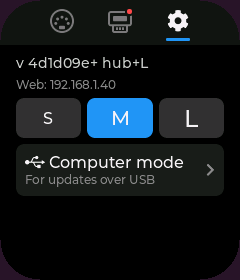
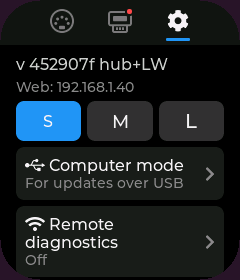
Install box: say when the board runs a newer build; two-line check, short done
The board's build is compared with the offered one through the build's
ancestors, now listed in each manifest (build_site.py; CI's site job fetches
full history). A board on a newer or unknown-branch build hears so, and
keeping it is the first button. Check result is two lines; a blank board is
ready, not empty; the done message links the library and shows the RST hint
only after the restart should be over. Settings shot re-rendered from a
clean version.

diff --git a/site/installer/area.js b/site/installer/area.js
@@ -25,7 +25,7 @@ import { PORT_FILTER, SERIAL_OPTIONS, port as lock, h } from "./ui.js";
 
 // Shown in the page footer and in Details, so a bug report says which
 // installer ran. Bump it with every change to site/installer/.
-export const INSTALLER_VERSION = "2026-11-05.2";
+export const INSTALLER_VERSION = "2026-11-05.3";
 
 // The page footer shows it (build.py), so a bug report says which installer ran.
 const versionLine = typeof document !== "undefined" && document.getElementById("installer-version");
@@ -66,7 +66,9 @@ async function withTimeout(promise, ms, what) {
 // Chad's wording (2026-10-31) for a store region that holds data but no store.
 const UNREADABLE = "Your ESP32 has storage we can't read. Email feedback@outrigger.music before continuing. Nothing was installed.";
 
-const KEEPS = "Your settings and FM-1 backups stay.";
+// The board restarts after an install; a board that stays dark needs RST. Its USB port hosts the hub once it runs,
+// so this computer can't see it come back: the hint shows after the restart should have finished.
+const RST_HINT_MS = 20000;
 
 // The anonymous install count (install_event.js). Reading localStorage itself can throw; then nothing is remembered.
 function storage() {
@@ -280,33 +282,33 @@ class InstallArea {
   }
 
   confirm(choice, build, board, store) {
-    const words = describeBoard(board, build.manifest.build, this.names);
+    const words = describeBoard(board, build.manifest.build, this.names, build.manifest.ancestors);
     const name = buildName(build.manifest.build.app_set);
-    const noStore = store.unfinished ? "Its store was being set up when the last install stopped, so it has no store yet."
-      : store.previousFirmware ? "This board ran other firmware before, so it has no store." : "It has no store yet.";
+    const cancel = (label, cls) => h("button", { class: cls, on: { click: async () => { await this.close(); this.ready(); } } }, label);
     if (store.downloadProblem) {
       // A store set up later would land on leftovers (store.js storeAction), so nothing installs without it.
       return this.show(
         h("p", { class: "install-read" }, words.board),
         words.warning ? h("p", { class: "install-error", role: "alert" }, words.warning) : null,
-        h("p", {}, `${noStore} Installing sets one up with ${listOf(store.starter)}, but a download didn't come through: ${store.downloadProblem}. Nothing was written. Try again in a few minutes.`),
-        h("div", { class: "row" }, h("button", { class: "alt", on: { click: async () => { await this.close(); this.ready(); } } }, "Close")),
+        h("p", {}, `A download for its store didn't come through: ${store.downloadProblem}. Nothing was written. Try again in a few minutes.`),
+        h("div", { class: "row" }, cancel("Close", "alt")),
       );
     }
-    const storeWords = store.action !== "create" ? null
-      : `${noStore} Installing also sets up a fresh one with ${listOf(store.starter)}; add Felucca, Skiff and others after. ` +
-        "It downloads both from GitHub, straight into this browser: M-VAVE's stock firmware, and the file the loader needs from the FM-1's chip maker.";
+    // The store's downloads come from GitHub, straight into this browser: M-VAVE's stock firmware and the loader file.
+    const storeWords = store.action !== "create" ? ""
+      : ` It also sets up a store with ${listOf(store.starter)}, downloaded from GitHub.`;
+    // The chip check's words matter only when the visitor picked the board, or nobody has tried this one.
+    const chipWords = this.chipWords && (this.boards.length > 1 || choice.tested === false) ? this.chipWords : null;
+    const install = h("button", { class: words.newer ? "alt" : null, on: { click: () => this.run(choice, build, board, store) } },
+      words.newer ? "Install the older build" : `Install ${name}`);
     this.show(
       h("p", { class: "install-read" }, words.board),
       words.warning ? h("p", { class: "install-error", role: "alert" }, words.warning) : null,
-      this.chipWords ? h("p", {}, this.chipWords) : null,
-      h("p", {}, words.install),
-      storeWords ? h("p", {}, storeWords) : null,
-      h("div", { class: "row" },
-        h("button", { on: { click: () => this.run(choice, build, board, store) } }, `Install ${name}`),
-        h("button", { class: "alt", on: { click: async () => { await this.close(); this.ready(); } } }, "Cancel")),
+      chipWords ? h("p", {}, chipWords) : null,
+      h("p", {}, words.install + storeWords),
+      // A newer build stays unless the visitor means to go back: keeping it comes first.
+      h("div", { class: "row" }, ...(words.newer ? [cancel("Keep it"), install] : [install, cancel("Cancel", "alt")])),
       this.countBox(),
-      h("p", { class: "install-note" }, KEEPS),
     );
   }
 
@@ -344,13 +346,15 @@ class InstallArea {
 
   done(build, store, storeProblem) {
     const name = `${buildName(build.manifest.build.app_set)} ${build.manifest.build.commit}`;
-    const storeWords = store.action !== "create" ? null
+    const next = store.action !== "create" ? "Unplug it and plug it into the hub."
       : storeProblem ? `Firmware switching isn't set up: ${storeProblem}.`
-        : `Its store is set up with ${listOf(store.starter)}. Add more from the Firmware library, linked at the top of this page, then switch between them from the loader on the board.`;
+        : h("span", {}, "Next: add firmwares in the ", h("a", { href: "/library/" }, "Firmware library"), ".");
+    const rst = h("p", { class: "install-note", hidden: true }, "Screen still dark? Tap RST once.");
+    setTimeout(() => { rst.hidden = false; }, RST_HINT_MS);
     this.show(h("div", { class: "install-done", role: "status" },
-      h("p", {}, h("b", {}, `Installed ${name}.`), " The board restarts by itself. If its screen stays dark, tap RST once."),
-      storeWords ? h("p", {}, storeWords) : null,
-      h("p", {}, "Then unplug it from this computer and plug it back into the hub.")));
+      h("p", {}, h("b", {}, `Installed ${name}.`)),
+      h("p", {}, next),
+      rst));
   }
 
   explain(e, lead) {

diff --git a/site/installer/board.js b/site/installer/board.js
@@ -57,20 +57,34 @@ export function buildName(label) {
 
 const version = (tag) => `${tag.commit}${tag.dirty ? "+" : ""}`;
 
+// How the board's build stands against the one about to be installed: "same",
+// "older" (the board's commit is in ancestors, the offered build's history),
+// "newer" (it isn't: a later commit or a branch this page doesn't hold), or
+// "unknown" (no history: a manifest from before it was recorded). The tag holds
+// only the short commit, so ancestors are 7-character prefixes (build_site.py).
+export function compareBuilds(tag, build, ancestors) {
+  if (version(tag) === version(build)) return "same";
+  if (tag.commit === build.commit) return "older"; // a dirty build of this commit
+  if (!Array.isArray(ancestors)) return "unknown";
+  return ancestors.includes(tag.commit) ? "older" : "newer";
+}
+
 // board: {tag, layout, store}; build: the tag of the build about to be
-// installed (manifest.json "build"); names: tag_id -> the boards' short names.
-// Returns two sentences: what the board holds, and what installing does to it;
-// plus a warning when it runs the build for another board than the one picked.
-// The chip can't say which board it sits on, so the pick is the user's.
-export function describeBoard(board, build, names = {}) {
-  const words = describeBuild(board, build);
+// installed (manifest.json "build"); names: tag_id -> the boards' short names;
+// ancestors: manifest.json "ancestors". Returns two lines: what the board holds
+// (board), and what installing does to it (install); newer when the board runs
+// a later build than this one, so Install isn't offered first; and a warning
+// when it runs the build for another board than the one picked. The chip
+// can't say which board it sits on, so the pick is the user's.
+export function describeBoard(board, build, names = {}, ancestors) {
+  const words = describeBuild(board, build, ancestors);
   const theirs = board.tag ? board.tag.board ?? 0 : null;
   const picked = build.board ?? 0;
   if (theirs === null || theirs === picked) return words;
   const name = (id) => (names[id] ? `the ${names[id]}` : "another board");
   return {
-    board: words.board,
-    install: `Installing ${buildName(build.app_set)} ${version(build)} replaces it. ${keepsFor(board)}`,
+    ...words,
+    install: words.newer ? words.install : `Installing ${buildName(build.app_set)} ${version(build)} replaces it. ${keepsFor(board)}`,
     warning: `This board runs the build for ${name(theirs)}, and you picked ${name(picked)}. ` +
       "Pick the board you have: the wrong build leaves its screen dark or garbled. Installing again with the right pick fixes that.",
   };
@@ -78,26 +92,29 @@ export function describeBoard(board, build, names = {}) {
 
 const keepsFor = (board) => (board.store ? "Your settings, Wi-Fi and backups stay." : "Your settings and Wi-Fi stay.");
 
-function describeBuild(board, build) {
+function describeBuild(board, build, ancestors) {
   const next = `${buildName(build.app_set)} ${version(build)}`;
-  const storeClause = board.store ? " and has a backup store, where the loader keeps FM-1 backups" : "";
   const keeps = keepsFor(board);
 
-  if (board.layout === "blank") return { board: "This board is empty.", install: `Installing puts ${next} on it.` };
+  if (board.layout === "blank") return { board: "Nothing on it yet: ready for Outrigger.", install: `Installing puts ${next} on it.` };
   if (board.layout === "other") {
     return { board: "This board runs other firmware.", install: `Installing ${next} replaces it. Settings from that firmware may not carry over.` };
   }
-  if (!board.tag) {
-    return { board: `This board runs an earlier usb-midi-host build${storeClause}.`, install: `Installing ${next} replaces it. ${keeps}` };
-  }
+  // Our layout without a tag: a build from before tags, so older than any this page offers.
+  if (!board.tag) return { board: "This board runs an earlier Outrigger build.", install: `Installing ${next} updates it. ${keeps}` };
   const now = buildName(board.tag.app_set);
-  const said = `This board runs ${now} ${version(board.tag)}${storeClause}.`;
+  const said = `This board runs ${now} ${version(board.tag)}.`;
+  const relation = compareBuilds(board.tag, build, ancestors);
+  if (relation === "newer") {
+    return { board: `This board runs ${now} ${version(board.tag)}, a newer build than this page installs.`, newer: true,
+      install: `Installing puts the older ${next} on it. ${keeps}` };
+  }
   if (board.tag.app_set !== build.app_set) return { board: said, install: `Installing ${next} replaces ${now}. ${keeps}` };
-  if (version(board.tag) === version(build)) {
+  if (relation === "same") {
     // Two dirty builds of one commit can differ, so only a clean one is "this build".
     const same = build.dirty ? "It already runs this commit. Installing it again rewrites the program."
       : "It already runs this build. Installing it again changes nothing.";
     return { board: said, install: `${same} ${keeps}` };
   }
-  return { board: said, install: `Installing ${next} updates it. ${keeps}` };
+  return { board: said, install: `Installing ${next} ${relation === "older" ? "updates" : "replaces"} it. ${keeps}` };
 }

diff --git a/tools/build_site.py b/tools/build_site.py
@@ -34,6 +34,7 @@ import json
 import os
 import shutil
 import struct
+import subprocess
 import sys
 from pathlib import Path
 
@@ -196,9 +197,21 @@ def check_build_tag(app, app_set, board):
 LOADER_APP_SETS = ("hub-loader", "everything")
 
 
-def make_manifest(board, app_set, version, tag, parts, store_template=None):
+def ancestors(commit, cwd=ROOT):
+    """Every commit the build holds (itself included), as the tag's 7-character prefix, so the page can tell an
+    update from a downgrade (site/installer/board.js compareBuilds). All parents, not the first: a board flashed
+    from preview runs a branch commit, and once merged it's older. A shallow clone would make every board in the
+    field read as newer, so it's refused."""
+    git = lambda *args: subprocess.run(["git", *args], cwd=cwd, capture_output=True, text=True, check=True).stdout
+    if git("rev-parse", "--is-shallow-repository").strip() != "false":
+        fail("this clone is shallow: the page needs the build's whole history (fetch-depth: 0 in CI)")
+    return [sha[:7] for sha in git("rev-list", commit).split()]
+
+
+def make_manifest(board, app_set, version, tag, parts, store_template=None, history=None):
     """manifest.json for one app set. parts: offset -> bytes; store_template:
-    the bytes of store-template.json for an app set that runs the loader."""
+    the bytes of store-template.json for an app set that runs the loader;
+    history: ancestors() of the build's commit."""
     manifest = {
         "name": f"{board['name']}: {APP_SETS[app_set]}",
         "version": version,
@@ -213,6 +226,8 @@ def make_manifest(board, app_set, version, tag, parts, store_template=None):
                        "sha256": hashlib.sha256(parts[offset]).hexdigest()} for offset, name, _ in PARTS],
         }],
     }
+    if history is not None:
+        manifest["ancestors"] = history
     if store_template is not None:
         # Written onto a factory-blank store, with the loader fetched from GitHub (site/installer/store.js).
         manifest["store_template"] = "store-template.json"
@@ -329,7 +344,8 @@ def main():
     template_bytes = template.read_bytes() if app_set in LOADER_APP_SETS else None
     if template_bytes is not None:
         (out / "store-template.json").write_bytes(template_bytes)
-    manifest = make_manifest(board, app_set, version, tag, parts, store_template=template_bytes)
+    manifest = make_manifest(board, app_set, version, tag, parts, store_template=template_bytes,
+                             history=ancestors(tag["commit"]))
     (out / "manifest.json").write_text(json.dumps(manifest, indent=2) + "\n")
 
     try:

diff --git a/tests/installer/test_tables.py b/tests/installer/test_tables.py
@@ -129,6 +129,11 @@ def check_manifest():
         failures.append(f"manifest build {m.get('build')} != {tag}")
     if "store_template" in m:
         failures.append("a MIDI Hub manifest names a store template; only loader builds set up a store")
+    # No history: the page says neither "updates" nor "newer" (board.js compareBuilds), so none is better than [].
+    if "ancestors" in m:
+        failures.append("a manifest made without history lists ancestors")
+    if make_manifest(BOARD, "hub", "def5678", tag, parts, history=["def5678", "abc1234"]).get("ancestors") != ["def5678", "abc1234"]:
+        failures.append("the manifest drops the build's ancestors")
     template = b'{"size": 1}\n'
     loader = make_manifest(BOARD, "hub-loader", "def5678", dict(tag, app_set="hub+L"), parts, store_template=template)
     if loader.get("store_template") != "store-template.json":
